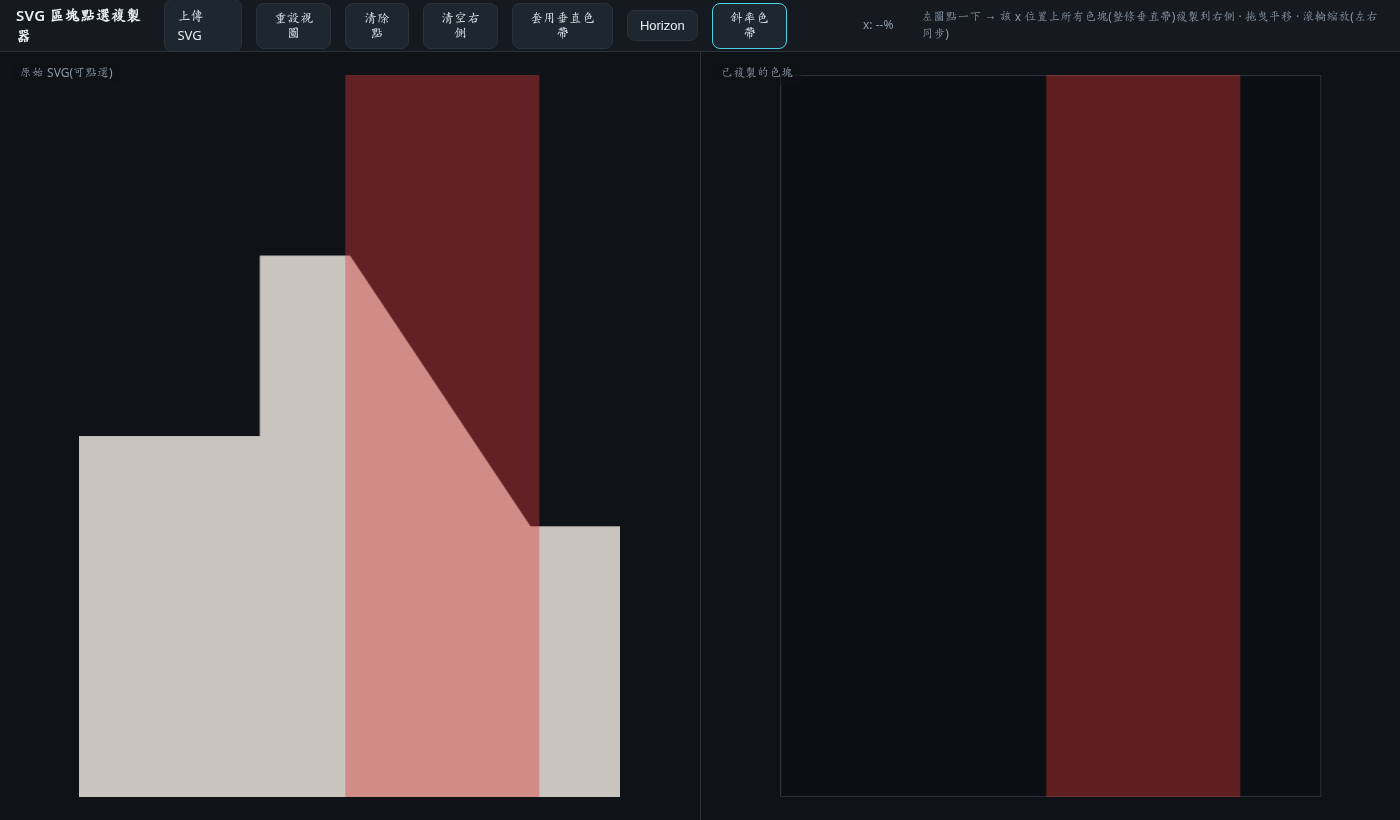
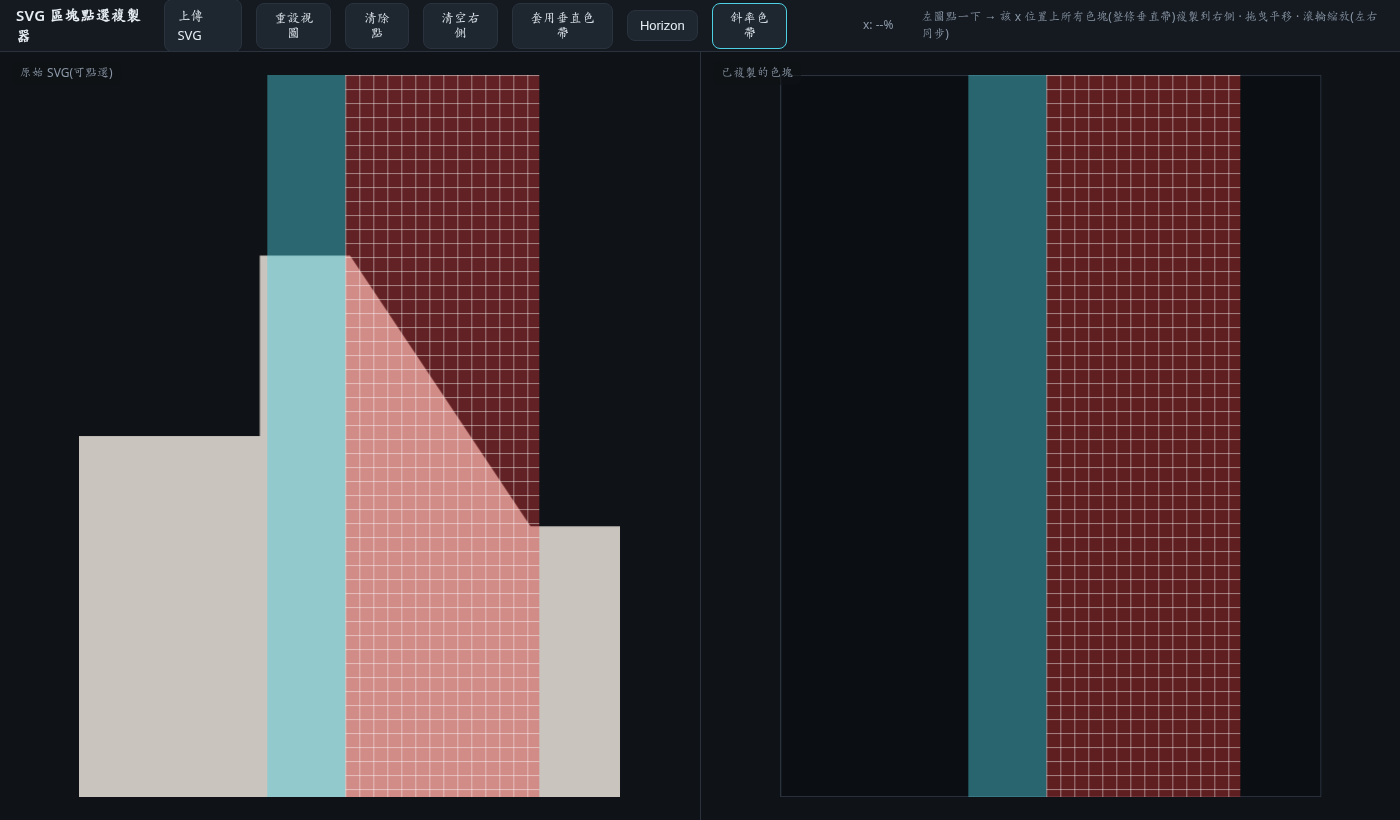
vcp: highlight the highest plateau + grid the sloped regions
Extend the band logic to colour two kinds of region:
  - sloped regions keep their per-region colour and now carry a grid
    overlay (CSS repeating-linear-gradient);
  - flat plateaus are segmented, and the single HIGHEST plateau that sits
    on the upper side of a flat–flat 90° step is given a solid highlight
    (highest = topmost skyline = smallest screen-y). Lower plateaus and
    the steps themselves stay bare.

Refactor the per-column classification into horizonColumnClasses (flat /
slope / step / gap) shared by horizonSlopeSegments, horizonFlatSegments,
horizonRegions and highestFlatHighlight. Bands now carry a .slope/.flat
class so tests and the grid CSS can target each kind. Tests updated:
staircase → one highlight on the tallest block; ramp → gridded diagonal
plus highlight; clean fixture → one slope band plus the upper-plateau
highlight.

Changed region(s): [[0.6757, 0.0915, 0.8907, 0.9756], [0.1843, 0.0915, 0.3686, 0.9756]]

diff --git a/vcp/index.html b/vcp/index.html
@@ -30,6 +30,11 @@
   .vshade { position:absolute; top:0; height:100%; display:none; pointer-events:none; z-index:1; }
   .vbands { position:absolute; inset:0; width:100%; height:100%; pointer-events:none; z-index:1; }
   .vbands > div { position:absolute; top:0; height:100%; }
+  .vbands > div.slope {           /* sloped regions get a grid overlay on top of the fill */
+    background-image:
+      repeating-linear-gradient(to right, rgba(255,255,255,.45) 0 1px, transparent 1px 14px),
+      repeating-linear-gradient(to bottom, rgba(255,255,255,.45) 0 1px, transparent 1px 14px);
+  }
   #cv { cursor:crosshair; }
   .side.panning, .side.panning #cv { cursor:grabbing; }
   #right .wrap { background:#0b0e12; box-shadow:inset 0 0 0 1px var(--line); }
@@ -133,79 +138,130 @@ function applyShade(startPct, endPct, hex, alpha) {
   }
 }
 
-/* ---- slope bands: cut the horizon skyline into maximal runs that are NOT
-   flat, and paint each run as its own vertical colour band. Each column is
-   classified from two per-column measures, which together separate the three
-   things that look alike in a pixel skyline:
-     • a *windowed* slope ∂y/∂x — a sloped edge rasterises to a staircase (flat
-       tread + 1px step, repeating), so the window spans several treads and the
-       whole diagonal reads as ONE slope instead of fragmenting band-per-step;
-     • the largest *single-column* jump |Δy|/Δx in that window — a real slope
-       spreads its rise over many small per-column steps, but a vertical 90°
-       edge concentrates the WHOLE rise into one column. Any single-column jump
-       above `jumpMax` is a discontinuity and is left unmarked — regardless of
-       the step's height, so a short step and a tall step are treated alike.
-   So a column is marked only when it is genuinely sloped AND nothing in its
-   window is a vertical step; every segment is uniformly flat/step (unmarked) or
-   uniformly sloped (marked), and the number of bands is 0..N. */
-function horizonSlopeSegments(points, options = {}) {
+/* ---- slope / flat bands over the horizon skyline ------------------------
+   Each column is classified from a windowed slope ∂y/∂x and the largest
+   single-column jump |Δy|/Δx within that window:
+     • "step"  — a single-column jump > jumpMax: a vertical 90° edge
+                 (discontinuity) at ANY height. Never coloured; separates
+                 regions.
+     • "slope" — genuinely sloped (|slope| > flatEps) with no step in the
+                 window. The window spans a rasterised staircase, so a diagonal
+                 reads as ONE region. Coloured AND gridded.
+     • "flat"  — zero slope (a plateau).
+     • "gap"   — no filled pixel; separates regions.
+   Steps/gaps break runs, so every coloured region is uniformly one kind. The
+   highlight picks the single highest plateau that sits on the upper side of a
+   flat–flat step (see highestFlatHighlight). */
+function horizonColumnClasses(points, options = {}) {
   const n = points.length, last = n - 1;
-  if (last < 1) return [];
   const window = Math.max(1, options.window ?? Math.min(20, Math.max(4, Math.round(n * 0.004))));
   const flatEps = options.flatEps ?? 0.1;           // |slope| ≤ this ⇒ flat (also swallows ±1px raster jitter)
-  const jumpMax = options.jumpMax ?? 6;             // a single-column rise above this ⇒ vertical step, never marked
-
-  const slope = new Array(n).fill(null);            // windowed slope per column; null where undefined
-  const jump = new Array(n).fill(0);               // largest single-column rise within the window
+  const jumpMax = options.jumpMax ?? 6;             // a single-column rise above this ⇒ vertical step
+  const slope = new Array(n).fill(null);
+  const klass = new Array(n).fill("gap");
   for (let i = 0; i < n; i++) {
-    if (!Number.isFinite(points[i].y)) { jump[i] = Infinity; continue; }
+    if (!Number.isFinite(points[i].y)) { klass[i] = "gap"; continue; }
     const lo = Math.max(0, i - window), hi = Math.min(last, i + window);
     const a = points[lo], b = points[hi];
     if (Number.isFinite(a.y) && Number.isFinite(b.y) && b.x !== a.x) slope[i] = (b.y - a.y) / (b.x - a.x);
-    let worst = 0;
+    let worst = 0, broken = false;
     for (let k = lo; k < hi; k++) {
       const y0 = points[k].y, y1 = points[k + 1].y;
-      if (!Number.isFinite(y0) || !Number.isFinite(y1)) { worst = Infinity; break; }   // a gap counts as a break
+      if (!Number.isFinite(y0) || !Number.isFinite(y1)) { broken = true; break; }
       worst = Math.max(worst, Math.abs(y1 - y0) / (points[k + 1].x - points[k].x));
     }
-    jump[i] = worst;
+    if (broken) klass[i] = "gap";
+    else if (worst > jumpMax) klass[i] = "step";
+    else if (slope[i] !== null && Math.abs(slope[i]) > flatEps) klass[i] = "slope";
+    else klass[i] = "flat";
   }
-  const isSloped = i => slope[i] !== null && jump[i] <= jumpMax && Math.abs(slope[i]) > flatEps;
-
-  const segments = [];
-  let start = null;
-  const close = end => {
-    segments.push({
-      startIndex: start, endIndex: end,
-      startPct: (start / last) * 100, endPct: Math.min(100, ((end + 1) / last) * 100)
-    });
-    start = null;
+  return { klass, slope, last };
+}
+function segmentFromRun(start, end, last) {
+  return {
+    startIndex: start, endIndex: end,
+    startPct: (start / last) * 100, endPct: Math.min(100, ((end + 1) / last) * 100)
   };
-  for (let i = 0; i < n; i++) {
-    if (isSloped(i)) { if (start === null) start = i; }
-    else if (start !== null) close(i - 1);
+}
+function runsOfClass(klass, want, last) {
+  const runs = []; let start = null;
+  for (let i = 0; i < klass.length; i++) {
+    if (klass[i] === want) { if (start === null) start = i; }
+    else if (start !== null) { runs.push(segmentFromRun(start, i - 1, last)); start = null; }
   }
-  if (start !== null) close(last);
-  return segments;
+  if (start !== null) runs.push(segmentFromRun(start, last, last));
+  return runs;
+}
+// sloped regions (coloured + gridded)
+function horizonSlopeSegments(points, options = {}) {
+  const { klass, last } = horizonColumnClasses(points, options);
+  if (last < 1) return [];
+  return runsOfClass(klass, "slope", last);
+}
+// flat plateaus, each tagged with a representative skyline y
+function horizonFlatSegments(points, options = {}) {
+  const { klass, last } = horizonColumnClasses(points, options);
+  if (last < 1) return [];
+  return runsOfClass(klass, "flat", last).map(seg => {
+    seg.y = points[Math.floor((seg.startIndex + seg.endIndex) / 2)].y;
+    return seg;
+  });
+}
+// ordered list of coloured regions (flat|slope), used to find flat–flat steps
+function horizonRegions(points, options = {}) {
+  const { klass, last } = horizonColumnClasses(points, options);
+  const regions = [];
+  let start = null, cur = null;
+  for (let i = 0; i <= klass.length; i++) {
+    const k = i < klass.length ? klass[i] : null;
+    const paint = k === "flat" || k === "slope";
+    if (paint && k === cur) continue;
+    if (cur !== null) {
+      const seg = segmentFromRun(start, i - 1, last);
+      seg.type = cur;
+      if (cur === "flat") seg.y = points[Math.floor((start + (i - 1)) / 2)].y;
+      regions.push(seg);
+    }
+    cur = paint ? k : null;
+    if (paint) start = i;
+  }
+  return { regions, last };
+}
+/* The single highest plateau that sits on the upper side of a flat–flat 90°
+   step. Two plateaus adjacent in the region list are separated only by a
+   step/gap, so a LOWER flat neighbour (larger screen-y) means this plateau is
+   the taller side of a step. "Highest" = topmost skyline = smallest screen-y
+   (y grows downward). Flip the comparisons to pick the lowest instead. */
+function highestFlatHighlight(regions) {
+  const candidates = regions.filter((r, i) => {
+    if (r.type !== "flat") return false;
+    const neighbours = [regions[i - 1], regions[i + 1]].filter(nb => nb && nb.type === "flat");
+    return neighbours.some(nb => nb.y > r.y);       // a lower flat across the step ⇒ r is the higher side
+  });
+  if (!candidates.length) return null;
+  return candidates.reduce((best, r) => (r.y < best.y ? r : best));
 }
 function bandColor(i) {
   const hue = (i * 137.508) % 360;                  // golden angle → distinct hues for any count
   return `hsla(${hue.toFixed(2)}, 72%, 55%, 0.4)`;
 }
+const FLAT_HIGHLIGHT_COLOR = "rgba(77, 208, 225, 0.45)";   // solid highlight for the highest plateau
 function clearBands() { lbands.innerHTML = ""; rbands.innerHTML = ""; }
-function renderSlopeBands(segments) {
+function addBand(seg, bg, kind) {                   // kind: "slope" (gridded) | "flat" (solid)
+  for (const hostEl of [lbands, rbands]) {
+    const div = document.createElement("div");
+    div.className = kind;
+    div.style.left = `${seg.startPct}%`;
+    div.style.width = `${seg.endPct - seg.startPct}%`;
+    div.style.backgroundColor = bg;
+    hostEl.appendChild(div);
+  }
+}
+function renderRegions(slopes, highlight) {
   clearBands();
-  segments.forEach((seg, i) => {
-    const color = bandColor(i);
-    for (const hostEl of [lbands, rbands]) {
-      const div = document.createElement("div");
-      div.style.left = `${seg.startPct}%`;
-      div.style.width = `${seg.endPct - seg.startPct}%`;
-      div.style.background = color;
-      hostEl.appendChild(div);
-    }
-  });
-  return segments.length;
+  slopes.forEach((seg, i) => addBand(seg, bandColor(i), "slope"));
+  if (highlight) addBand(highlight, FLAT_HIGHLIGHT_COLOR, "flat");
+  return slopes.length + (highlight ? 1 : 0);
 }
 
 /* ---- horizon: first filled y (skyline) for every sampled x ---- */
@@ -568,9 +624,11 @@ $("slopeband").onclick = async () => {
   button.disabled = true; button.textContent = "斜率色帶…";
   try {
     const { points } = await horizonSamples();
-    const segments = horizonSlopeSegments(points);
-    const count = renderSlopeBands(segments);
-    if (!count) Swal.fire("整條天際線都是平的(斜率皆為 0),沒有可標記的區段");
+    const { regions } = horizonRegions(points);
+    const slopes = regions.filter(r => r.type === "slope");
+    const highlight = highestFlatHighlight(regions);
+    const count = renderRegions(slopes, highlight);
+    if (!count) Swal.fire("找不到斜率區段或可標示的平台");
   } catch (error) {
     console.error(error);
     Swal.fire("斜率色帶產生失敗");

diff --git a/vcp/horizon-slope-step-heights.puppeteer.test.js b/vcp/horizon-slope-step-heights.puppeteer.test.js
@@ -74,31 +74,50 @@ async function main() {
       tops.forEach(top => { for (let k = 0; k < block; k++) points.push({ x: points.length, y: top }); });
       return horizonSlopeSegments(points, { window: 4, flatEps: 0.1, jumpMax: 6 });
     }, TOPS, BLOCK);
-    assert.deepEqual(staircaseSegments, [], "every vertical step is a discontinuity — 20px and 130px alike — so nothing is marked");
+    assert.deepEqual(staircaseSegments, [], "every vertical step is a discontinuity — 20px and 130px alike — so nothing is sloped");
 
-    // ---- 2. live DOM: the block staircase renders zero bands -----------------
+    // the highlight picks the tallest plateau (top=50), walking up the ascending
+    // flat–flat steps regardless of their heights.
+    const highlight = await page.evaluate((tops, block) => {
+      const points = [];
+      tops.forEach(top => { for (let k = 0; k < block; k++) points.push({ x: points.length, y: top }); });
+      const { regions } = horizonRegions(points, { window: 4, flatEps: 0.1, jumpMax: 6 });
+      const hl = highestFlatHighlight(regions);
+      return hl ? { y: hl.y, startIndex: hl.startIndex } : null;
+    }, TOPS, BLOCK);
+    assert.ok(highlight && highlight.y === 50, "the tallest plateau (top=50) is the highlight");
+    assert.ok(highlight.startIndex >= 250 && highlight.startIndex < 300, "the highlight is the rightmost/top block (cols 250–300)");
+
+    // ---- 2. live DOM: steps give no slope bands, only the tallest plateau -----
     await page.evaluate(markup => loadSvgText(markup), stairSvg);
     await page.click("#slopeband");
-    await page.waitForSelector(".swal2-popup");   // zero-band path finishes by announcing "all flat/steps"
-    const stairBands = await page.evaluate(() => document.querySelector("#lbands").childElementCount);
-    assert.equal(stairBands, 0, "a staircase of five 90° steps produces no bands at all");
-    await page.evaluate(() => Swal.close());
-    await page.waitForFunction(() => !document.querySelector(".swal2-popup"));
+    await page.waitForFunction(() => document.querySelector("#lbands").childElementCount > 0);
+    const stair = await page.evaluate(() => ({
+      slope: document.querySelectorAll("#lbands > div.slope").length,
+      flat: [...document.querySelectorAll("#lbands > div.flat")].map(d => ({ left: parseFloat(d.style.left), width: parseFloat(d.style.width) }))
+    }));
+    assert.equal(stair.slope, 0, "a staircase of five 90° steps produces no slope bands");
+    assert.equal(stair.flat.length, 1, "only the tallest plateau is highlighted");
+    assert.ok(stair.flat[0].left > 80 && stair.flat[0].left < 86, "the highlight sits on the tallest block (~83%)");
 
     // ---- 3. the classifier still marks a real slope -------------------------
     await page.evaluate(markup => loadSvgText(markup), rampSvg);
     await page.click("#slopeband");
-    await page.waitForFunction(() => document.querySelector("#lbands").childElementCount > 0);
-    const ramp = await page.evaluate(() => [...document.querySelectorAll("#lbands > div")]
-      .map(d => ({ left: parseFloat(d.style.left), width: parseFloat(d.style.width) })));
-    const covered = pct => ramp.some(b => pct >= b.left && pct <= b.left + b.width);
+    await page.waitForFunction(() => document.querySelector("#lbands > div.slope") !== null);
+    const ramp = await page.evaluate(() => ({
+      slope: [...document.querySelectorAll("#lbands > div.slope")].map(d => ({ left: parseFloat(d.style.left), width: parseFloat(d.style.width) })),
+      flat: [...document.querySelectorAll("#lbands > div.flat")].map(d => ({ left: parseFloat(d.style.left), width: parseFloat(d.style.width) }))
+    }));
+    const covered = (arr, pct) => arr.some(b => pct >= b.left && pct <= b.left + b.width);
 
-    assert.equal(ramp.length, 1, "the lone diagonal yields exactly one band");
-    assert.ok(covered(DIAGONAL_PCT), "the diagonal (40%) IS marked");
-    assert.ok(!covered(RAMP_STEP_PCT), "the vertical step (80%) is NOT marked");
+    assert.equal(ramp.slope.length, 1, "the lone diagonal yields exactly one slope band");
+    assert.ok(covered(ramp.slope, DIAGONAL_PCT), "the diagonal (40%) IS a gridded slope band");
+    assert.ok(!covered(ramp.slope, RAMP_STEP_PCT), "the vertical step (80%) is NOT a slope band");
+    assert.equal(ramp.flat.length, 1, "the taller plateau past the step is highlighted");
+    assert.ok(covered(ramp.flat, 90), "the highlight sits on the top plateau (~80–100%)");
 
     assert.deepEqual(pageErrors, [], "the browser reported no runtime errors");
-    console.log("Horizon slope-band discontinuity test: OK (all steps unmarked regardless of height; diagonal still marked)");
+    console.log("Horizon slope-band discontinuity test: OK (steps unmarked at any height; tallest plateau highlighted; diagonal gridded)");
   } finally {
     await browser.close();
     await new Promise(resolve => server.close(resolve));

diff --git a/vcp/horizon-slope.puppeteer.test.js b/vcp/horizon-slope.puppeteer.test.js
@@ -75,39 +75,45 @@ async function main() {
     assert.ok(segments.colors.every(c => c.startsWith("hsla(")), "colours are hsla() strings");
 
     // ---- 2. clean geometric SVG: flat → vertical step → diagonal → flat -------
-    // mirrors the reported screenshot: the step must stay unmarked, the diagonal
-    // must be a single band.
+    // the step stays unmarked, the diagonal is one gridded slope band, and the
+    // higher plateau across the flat–flat step gets the solid highlight.
     const stepSlopeSvg = `<svg xmlns="http://www.w3.org/2000/svg" width="300" height="400" viewBox="0 0 300 400"><polygon points="0,200 100,200 100,100 150,100 250,250 300,250 300,400 0,400" fill="#c9c4bd"/></svg>`;
     await page.evaluate(markup => loadSvgText(markup), stepSlopeSvg);
     await page.click("#slopeband");
-    await page.waitForFunction(() => document.querySelector("#lbands").childElementCount > 0);
-    const clean = await page.evaluate(() => [...document.querySelectorAll("#lbands > div")]
-      .map(d => ({ left: parseFloat(d.style.left), width: parseFloat(d.style.width) })));
+    await page.waitForFunction(() => document.querySelector("#lbands > div.slope") !== null);
+    const clean = await page.evaluate(() => {
+      const read = sel => [...document.querySelectorAll(sel)].map(d => ({ left: parseFloat(d.style.left), width: parseFloat(d.style.width) }));
+      return { slope: read("#lbands > div.slope"), flat: read("#lbands > div.flat") };
+    });
 
-    assert.equal(clean.length, 1, "the diagonal yields exactly one band");
-    const band = clean[0], right = band.left + band.width;
-    assert.ok(band.left > 40 && band.left < 55, "the band starts at the diagonal (~50%), not the flat top");
-    assert.ok(right > 80 && right < 90, "the band ends where the diagonal does (~83%)");
-    assert.ok(!(33 >= band.left && 33 <= right), "the vertical step (~33%) is outside the band — the discontinuity is unmarked");
+    assert.equal(clean.slope.length, 1, "the diagonal yields exactly one slope band");
+    const band = clean.slope[0], right = band.left + band.width;
+    assert.ok(band.left > 40 && band.left < 55, "the slope band starts at the diagonal (~50%), not the flat top");
+    assert.ok(right > 80 && right < 90, "the slope band ends where the diagonal does (~83%)");
+    assert.ok(!(33 >= band.left && 33 <= right), "the vertical step (~33%) is outside the slope band");
+    assert.equal(clean.flat.length, 1, "the taller plateau across the flat–flat step is highlighted");
+    const hl = clean.flat[0], hlRight = hl.left + hl.width;
+    assert.ok(hl.left > 30 && hl.left < 40 && hlRight > 45 && hlRight < 55, "the highlight spans the upper (y=100) plateau, ~33–50%");
 
     // ---- 3. live DOM rendering over the real ex.svg skyline ------------------
     const fixture = await readFile(fixturePath, "utf8");
     await page.evaluate(markup => loadSvgText(markup), fixture);
     await page.click("#slopeband");
-    await page.waitForFunction(() => document.querySelector("#lbands").childElementCount > 0);
+    await page.waitForFunction(() => document.querySelector("#lbands > div.slope") !== null);
     const bands = await page.evaluate(() => {
-      const read = host => [...document.querySelectorAll(`#${host} > div`)].map(d => ({
-        left: parseFloat(d.style.left), width: parseFloat(d.style.width), bg: d.style.background
+      const read = sel => [...document.querySelectorAll(sel)].map(d => ({
+        left: parseFloat(d.style.left), width: parseFloat(d.style.width), bg: d.style.backgroundColor
       }));
-      return { left: read("lbands"), right: read("rbands") };
+      return { left: read("#lbands > div.slope"), right: read("#rbands > div.slope"), flat: read("#lbands > div.flat") };
     });
 
-    assert.ok(bands.left.length > 0, "ex.svg's varied skyline produces bands");
+    assert.ok(bands.left.length > 0, "ex.svg's varied skyline produces slope bands");
     assert.ok(bands.left.length < 431, "windowing + discontinuity exclusion beats the naive per-pixel partition");
-    assert.equal(bands.left.length, bands.right.length, "both panels show the same bands");
+    assert.equal(bands.left.length, bands.right.length, "both panels show the same slope bands");
     assert.ok(bands.left.every(b => b.left >= 0 && b.left + b.width <= 100.0001), "bands stay within 0~100%");
     assert.ok(bands.left.every(b => b.width > 0), "every band has a positive width");
-    assert.ok(bands.left.every(b => b.bg.includes("hsla") || /rgba?\(/.test(b.bg)), "every band is painted");
+    assert.ok(bands.left.every(b => /rgba?\(|hsla?\(/.test(b.bg)), "every band is painted");
+    assert.ok(bands.flat.length <= 1, "at most one plateau is highlighted");
     const lefts = bands.left.map(b => b.left);
     assert.deepEqual(lefts, [...lefts].sort((a, b) => a - b), "bands are laid out left→right");
 
